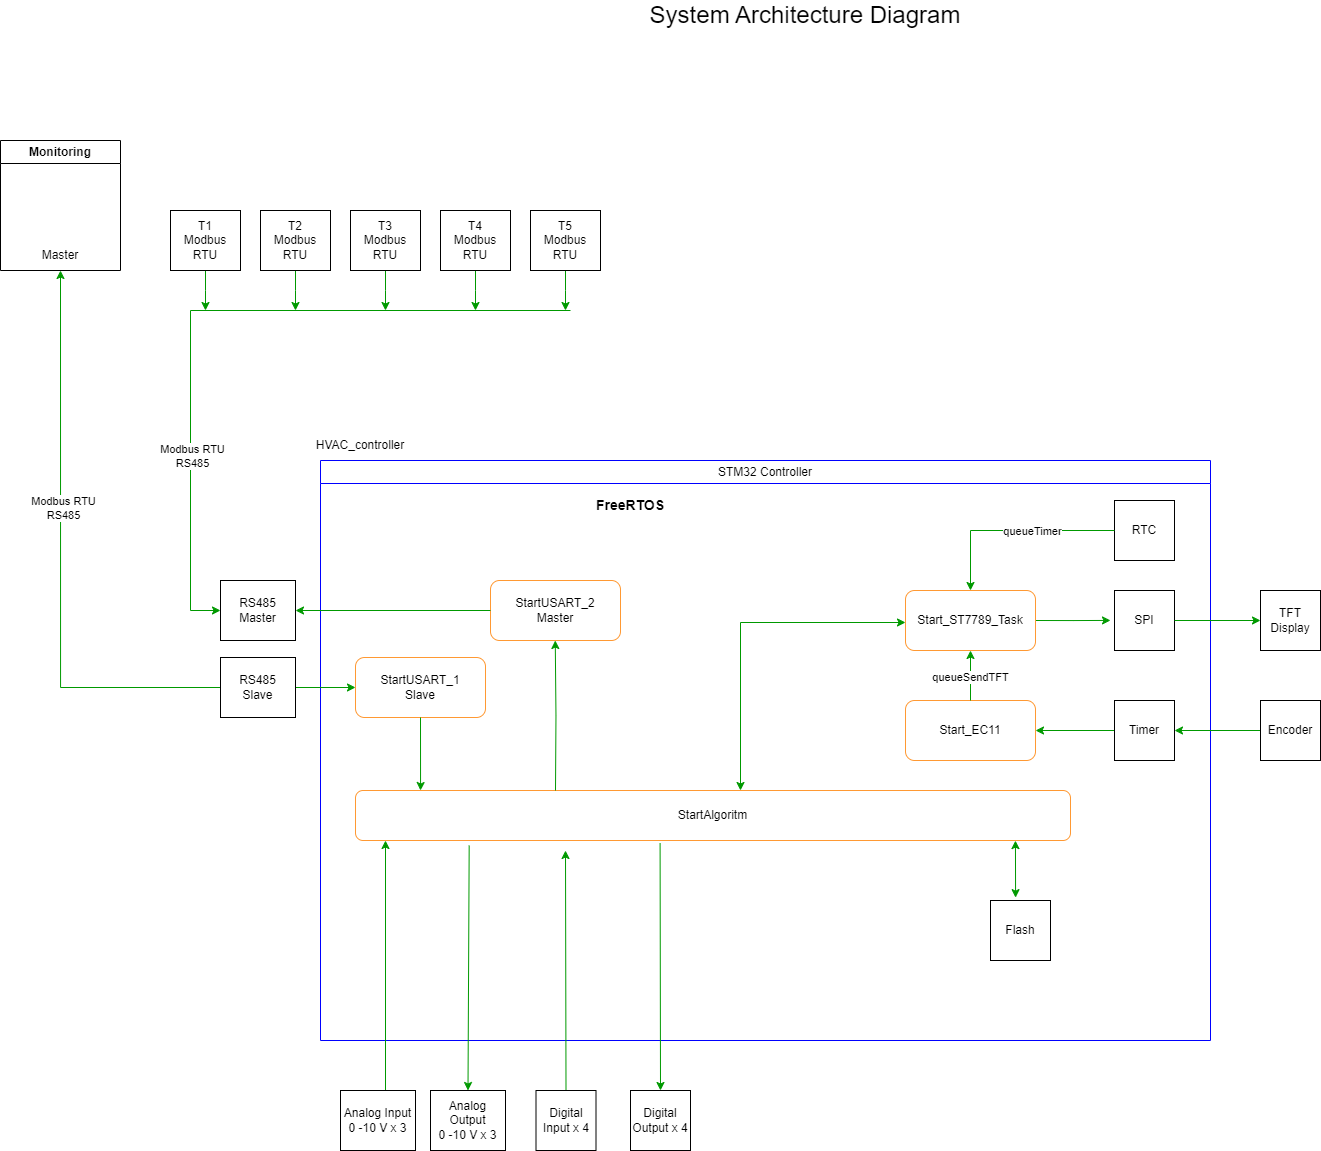
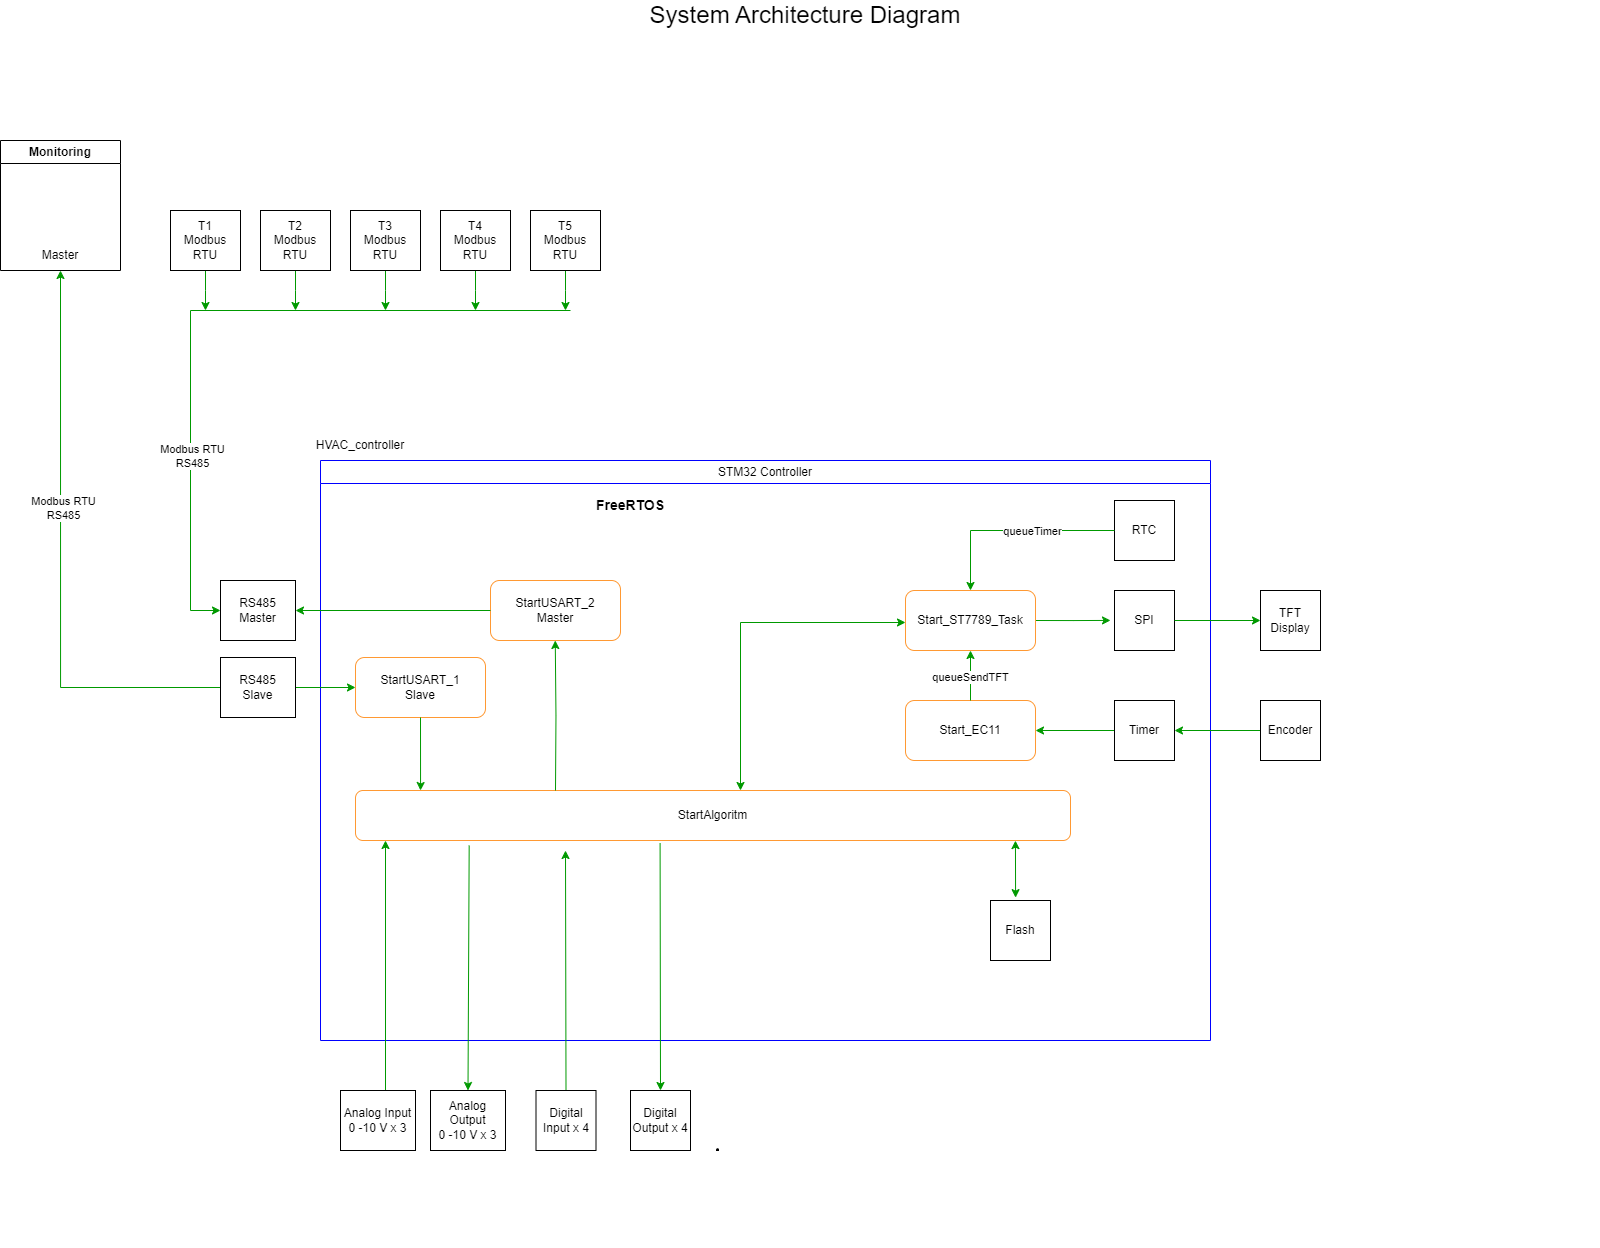
update README + update HVAC_Controller_System Architecture Diagram.drawio

diff --git a/README.md b/README.md
@@ -4,9 +4,10 @@
 
 Проект:  HVAC_Controller
 
-Цель проекта: Разработка контроллера управления наиболее распространенными вариантами ситем вентиляции и отопления. 
+Цель проекта: Разработка контроллера управления наиболее распространенными 
+		вариантами ситем вентиляции и отопления. 
 
-Область применения: Управление ситемами вентиляции и отопления.
+Область применения: Управление системами вентиляции и отопления.
 
 Аппаратная платформа:  Разработанный контроллер управления HVAC_Controller на базе микроконтроллера stm32f101RCT6
 - Цифровые входы:		- 4 шт
@@ -18,12 +19,12 @@
 
 Программное окружение:  CubeIDE 1.7.0, FreeRTOS v7.4.0
 
-## Архетектура системы
+## Архитектура системы
 
 ![Архитектура системы](docs/HVAC_Controller_System_Architecture_Diagram.png)
 
 
-## Архетектура ПО:
+## Архитектура ПО:
 1. FreeRTOS
    1. Задачи:
       - Start_ST7789_Task - работа с дисплеем ST7789 RGB 240x240
@@ -51,7 +52,7 @@
 	- freertos.c - инициализация и обработка задач FreeRTOS
 	- menu.c - Работа с меню дисплея
 	- Flash.c - Содержит функции для работы со Flash памятью
-	- EC11.c - функции работы с валкодером ЕС11
+	- EC11.c - функции работы с енкодером ЕС11
 	- digital_bloks.c - библиотека цифровых модулей языка FBD
 	- analog_bloks.c - - библиотека аналоговых модулей языка FBD
 	- utils.c - вспомогательные функции
@@ -61,23 +62,22 @@
 	- stm32f1xx_it.c - обработчики прерываний 
 
 ## Настройка и управление	
-- Управление работой микроконтроллера осуществляется  посредством энкодера и дисплея расположенных на панеле 
+- Управление работой микроконтроллера осуществляется  посредством энкодера и дисплея расположенных на панели 
   контроллера согласно инструкции "Контроллер_Управления.pdf"
 
 ## Электрические подключения
 	- Электрические подслючения осуществляются после выбора типа системы HVAC1 ... HVAC5
 при выключенном питании согласно инструкции "Схема включения HVAC1 ... HVAC5"
+
 ![Схема системы HVAC1](docs/HVAC1_Control.png)
+
 ![Схема системы HVAC2](docs/HVAC2_Control.png)
+
 ![Схема системы HVAC3](docs/HVAC3_Control.png)
+
 ![Схема системы HVAC4](docs/HVAC4_Control.png)
+
 ![Схема системы HVAC5](docs/HVAC5_Control.png)
 
 ## Алгоритмы работы
-При настройке выбирается один из типов систем HVAC1 ... HVAC5.  Управление осуществляется согласно выбранной 
-ситеме	
-
-
-
- 
-
+При настройке выбирается один из типов систем HVAC1 ... HVAC5.  Управление осуществляется согласно выбранной системе
